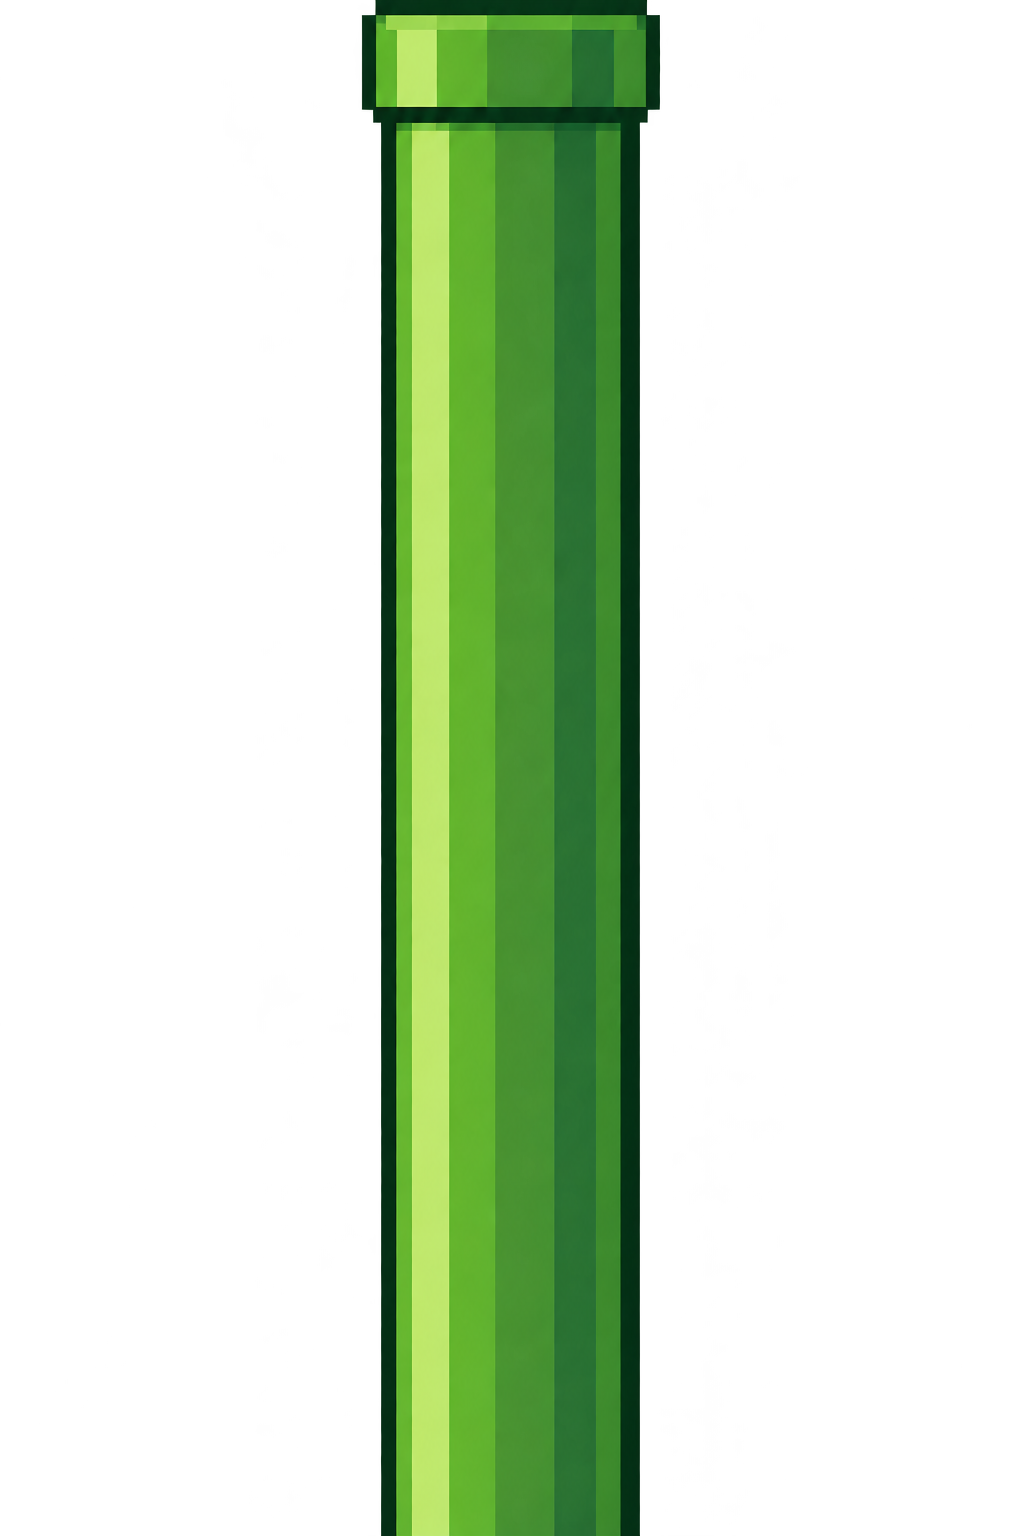
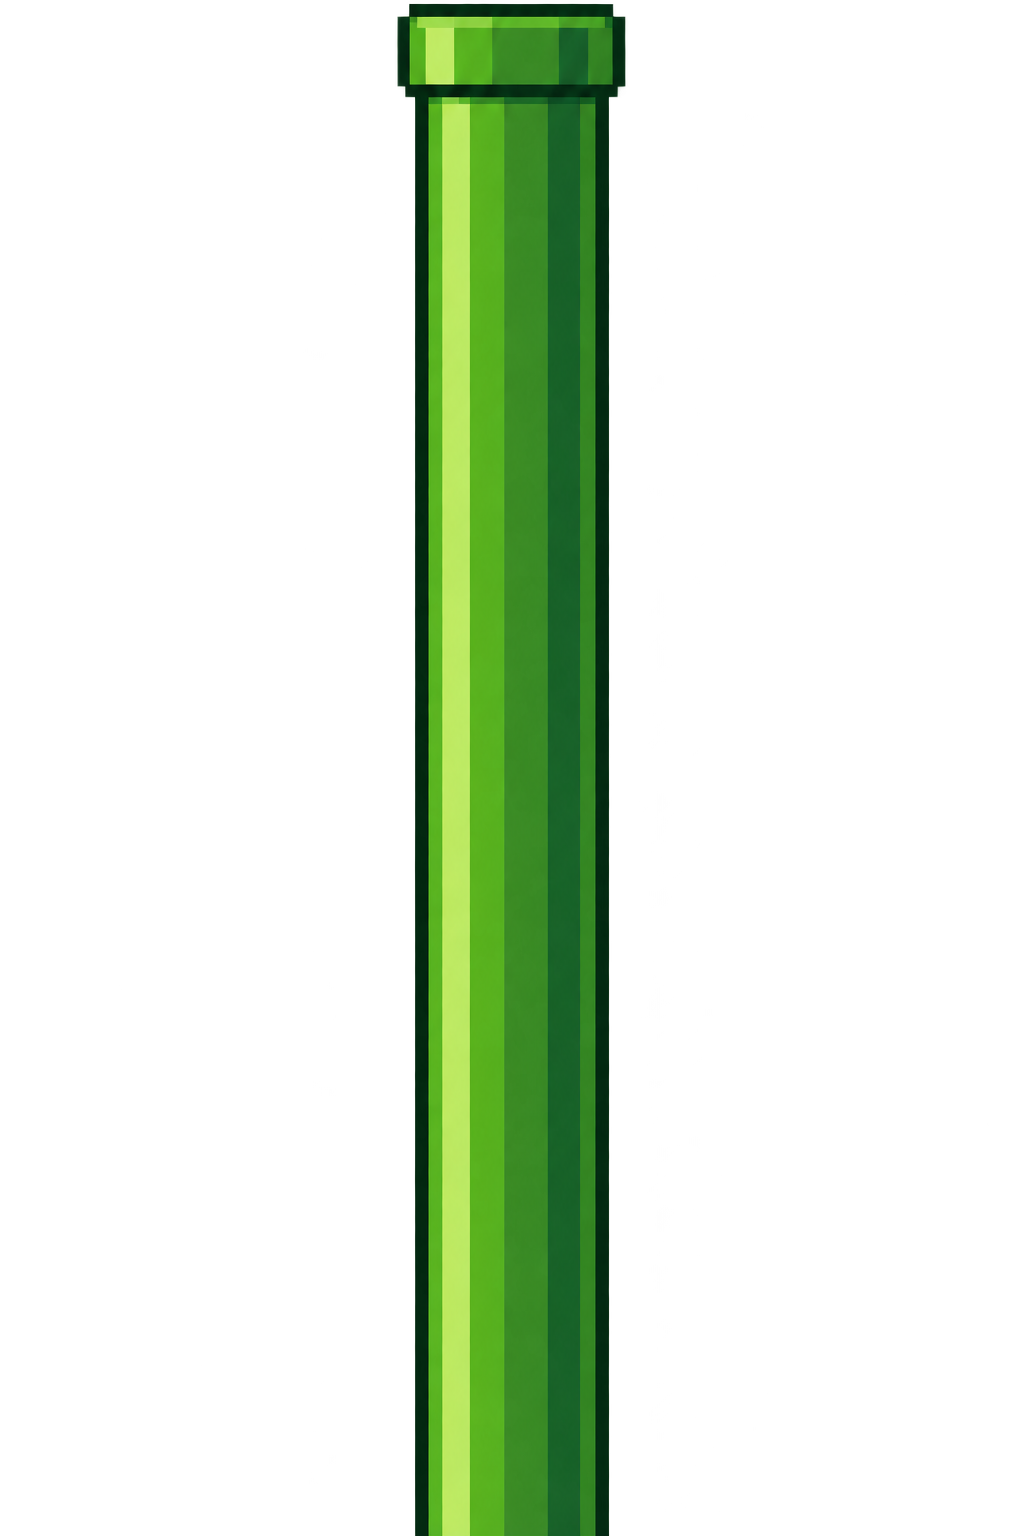
Увеличение длины трубы

Changed region(s): [[0.3438, 0.0, 0.6562, 1.0]]

diff --git a/flappy.py b/flappy.py
@@ -1,5 +1,6 @@
 import sys
 import os
+import random
 from PySide6.QtWidgets import QApplication, QWidget
 from PySide6.QtGui import QPainter, QPixmap, QTransform
 from PySide6.QtCore import Qt, QTimer
@@ -19,13 +20,13 @@ class Game(QWidget):
         self.bird_y = 350
 
         pipe_path = os.path.join(os.path.dirname(__file__), "pipe.png")
-        self.pipe_w = 250
+        self.pipe_w = 350
         self.pipe_img = QPixmap(pipe_path).scaledToWidth(self.pipe_w, Qt.SmoothTransformation)
         self.pipe_h = self.pipe_img.height()
         self.pipe_top_img = self.pipe_img.transformed(QTransform().scale(1, -1))
         self.pipe_x = 350
         self.gap_y = 250
-        self.gap = 150
+        self.gap = 120
         self.pipe_speed = 3
 
         self.speed = 0
@@ -64,6 +65,7 @@ class Game(QWidget):
             self.pipe_x -= self.pipe_speed
             if self.pipe_x < -self.pipe_w:
                 self.pipe_x = 500
+                self.gap_y = random.randint(100, 450)
         self.update()
 
 app = QApplication(sys.argv)
